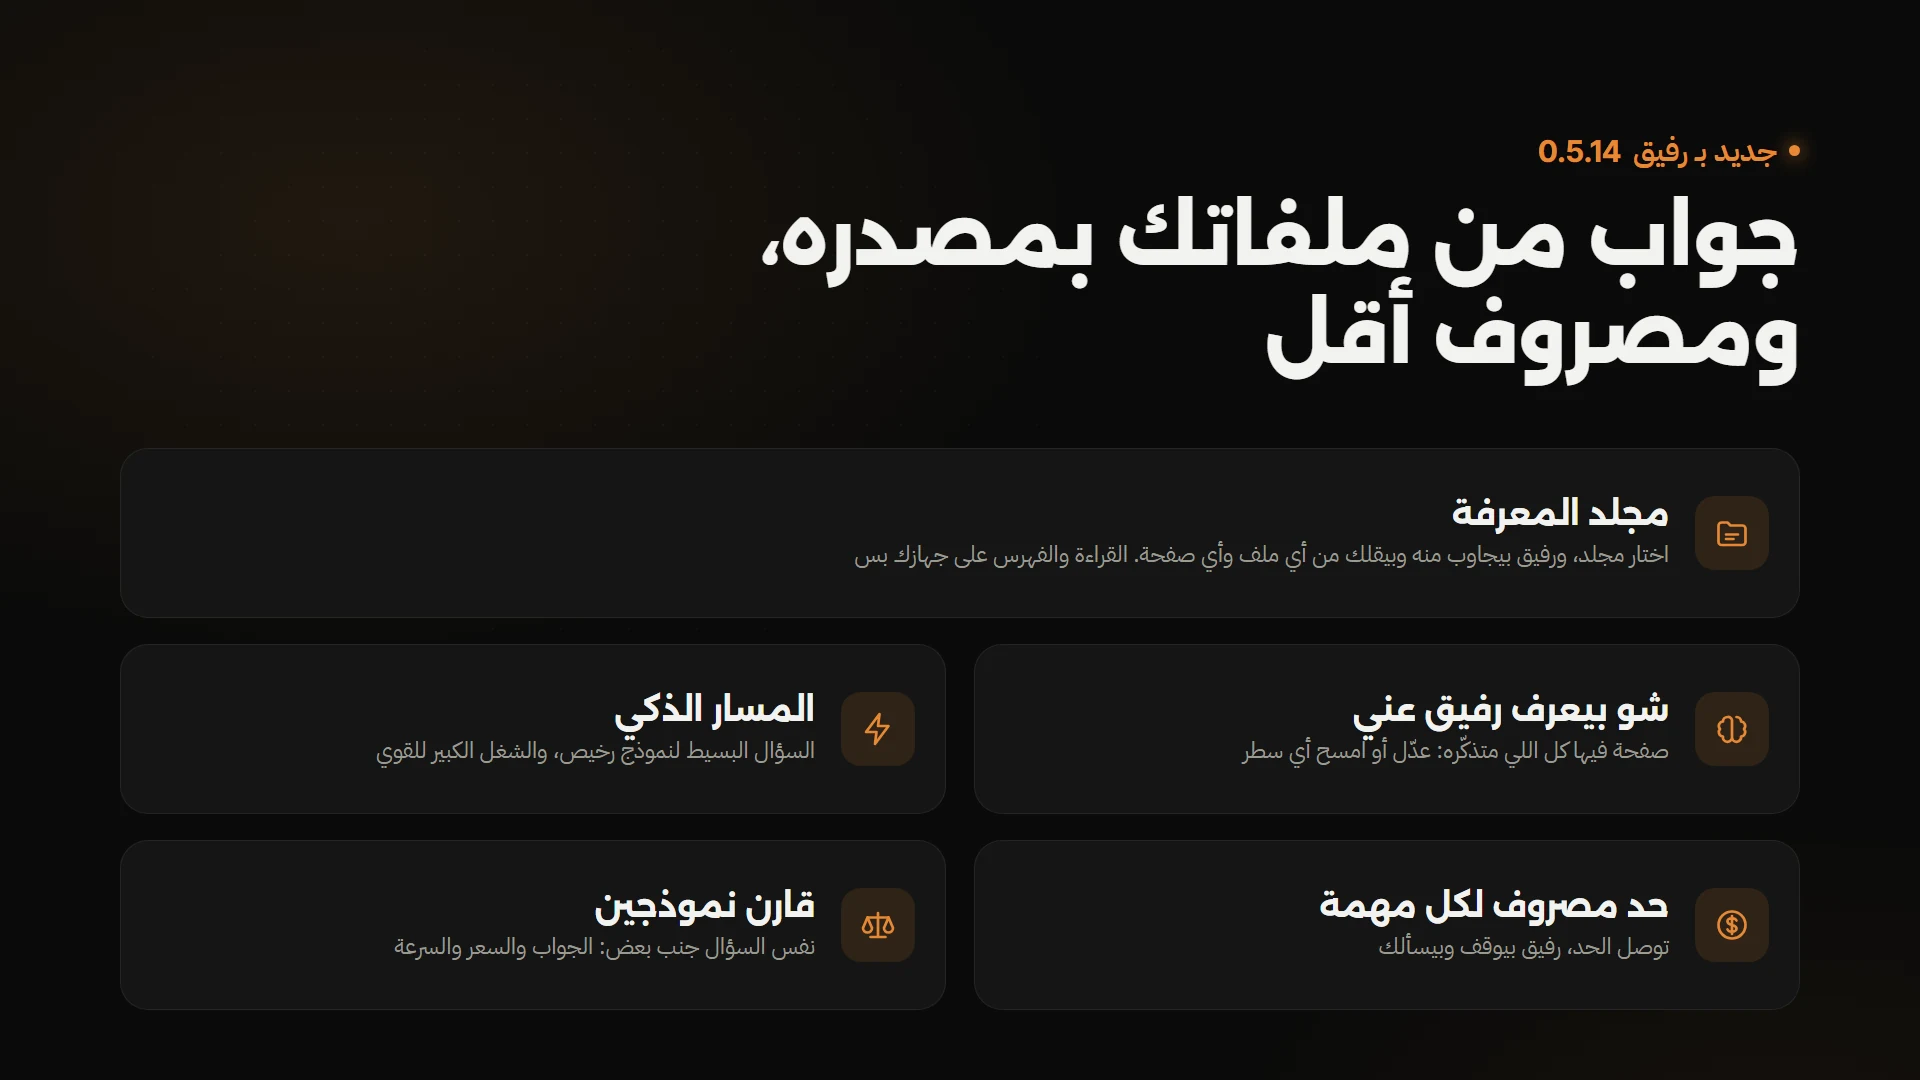
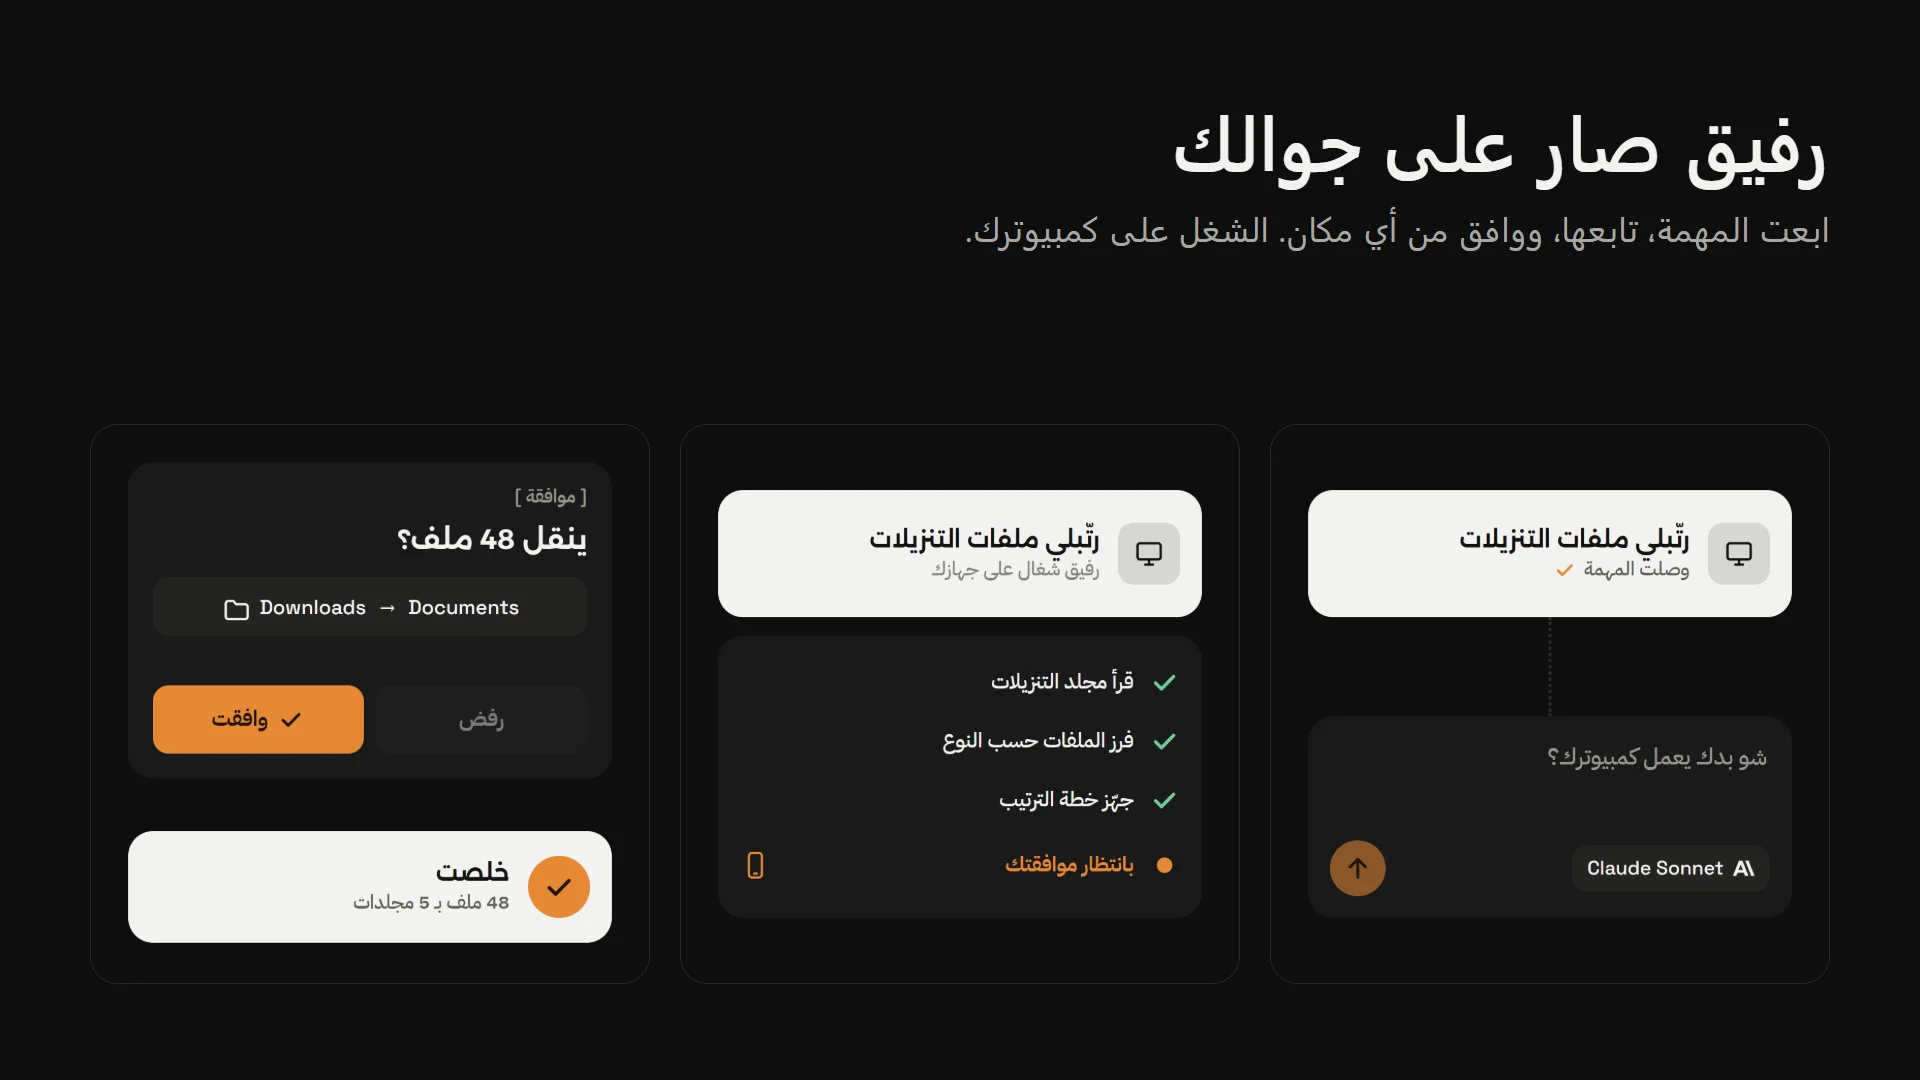
release: Rafiq 0.5.15

diff --git a/apps/desktop/src/i18n/ru.ts b/apps/desktop/src/i18n/ru.ts
@@ -3479,4 +3479,9 @@ export const ru: Dictionary = {
   "المسار الذكي: السؤال البسيط بيروح لنموذج رخيص، وكل رد بيقلك مين جاوب": "Умный маршрут: простой вопрос идёт к дешёвой модели, и каждый ответ показывает, кто отвечал",
   "حد مصروف لكل مهمة أو محادثة: توصله، رفيق بيوقف وبيسألك": "Лимит расходов на задачу или чат: при достижении Rafiq останавливается и спрашивает",
   "قارن نموذجين: نفس السؤال جنب بعض، الجواب والسعر والسرعة": "Сравнение двух моделей: один вопрос рядом — ответ, цена и скорость",
+  "رفيق صار على جوالك": "Rafiq теперь на вашем телефоне",
+  "ابعت مهمة لكمبيوترك من تطبيق الجوال، واختار الموديل من هناك": "Отправляйте задачу на компьютер из приложения на телефоне и выбирайте там модель",
+  "تابع الخطوات، ووافق أو ارفض أي أمر أو تعديل من جوالك": "Следите за шагами и разрешайте или запрещайте команды и изменения с телефона",
+  "كل شي مشفّر بين أجهزتك، والشغل كله بيتم على كمبيوترك": "Всё зашифровано между вашими устройствами, а вся работа идёт на вашем компьютере",
+  "خدمة اختيارية بـ 9.99$ بالشهر، وباقي رفيق بيضل مجاني وبدون حساب": "Необязательный сервис за $9.99 в месяц. Остальной Rafiq остаётся бесплатным и без аккаунта",
 };

diff --git a/apps/desktop/src/lib/whatsNew.ts b/apps/desktop/src/lib/whatsNew.ts
@@ -20,6 +20,9 @@ import screenRu from "../assets/whats-new/0.5.12-ru.webp";
 import councilAr from "../assets/whats-new/0.5.13-ar.webp";
 import councilEn from "../assets/whats-new/0.5.13-en.webp";
 import councilRu from "../assets/whats-new/0.5.13-ru.webp";
+import phoneAr from "../assets/whats-new/0.5.15-ar.webp";
+import phoneEn from "../assets/whats-new/0.5.15-en.webp";
+import phoneRu from "../assets/whats-new/0.5.15-ru.webp";
 
 // The version whose dialog the user closed. (A new key: the first builds marked a version
 // seen as soon as it opened, shown or not.)
@@ -45,6 +48,17 @@ export interface ReleaseNews {
 const RELEASE_VIDEO = (version: string, lang: Locale) => `https://github.com/AhmadALSaffan/RAFIQ/releases/download/v${version}/whats-new-${lang}.mp4`;
 
 export const NEWS: ReleaseNews[] = [
+  {
+    version: "0.5.15",
+    images: { ar: phoneAr, en: phoneEn, ru: phoneRu },
+    title: () => t("رفيق صار على جوالك"),
+    points: () => [
+      t("ابعت مهمة لكمبيوترك من تطبيق الجوال، واختار الموديل من هناك"),
+      t("تابع الخطوات، ووافق أو ارفض أي أمر أو تعديل من جوالك"),
+      t("كل شي مشفّر بين أجهزتك، والشغل كله بيتم على كمبيوترك"),
+      t("خدمة اختيارية بـ 9.99$ بالشهر، وباقي رفيق بيضل مجاني وبدون حساب"),
+    ],
+  },
   {
     version: "0.5.14",
     videos: { ar: RELEASE_VIDEO("0.5.14", "ar"), en: RELEASE_VIDEO("0.5.14", "en"), ru: RELEASE_VIDEO("0.5.14", "ru") },

diff --git a/apps/desktop/src/i18n/en.ts b/apps/desktop/src/i18n/en.ts
@@ -3460,4 +3460,9 @@ export const en: Dictionary = {
   "المسار الذكي: السؤال البسيط بيروح لنموذج رخيص، وكل رد بيقلك مين جاوب": "Smart route: a simple question goes to a cheap model, and every reply says who answered",
   "حد مصروف لكل مهمة أو محادثة: توصله، رفيق بيوقف وبيسألك": "A spending cap per task or chat: when it's reached, Rafiq stops and asks",
   "قارن نموذجين: نفس السؤال جنب بعض، الجواب والسعر والسرعة": "Compare two models: the same question side by side, with the answer, price and speed",
+  "رفيق صار على جوالك": "Rafiq is on your phone now",
+  "ابعت مهمة لكمبيوترك من تطبيق الجوال، واختار الموديل من هناك": "Send your computer a task from the phone app, and choose the model there",
+  "تابع الخطوات، ووافق أو ارفض أي أمر أو تعديل من جوالك": "Follow each step, and approve or deny any command or change from your phone",
+  "كل شي مشفّر بين أجهزتك، والشغل كله بيتم على كمبيوترك": "Everything is encrypted between your devices, and all the work happens on your computer",
+  "خدمة اختيارية بـ 9.99$ بالشهر، وباقي رفيق بيضل مجاني وبدون حساب": "An optional service at $9.99 a month. The rest of Rafiq stays free, with no account",
 };

diff --git a/apps/agent/rafiq_agent/api/insights.py b/apps/agent/rafiq_agent/api/insights.py
@@ -50,7 +50,7 @@ from rafiq_agent.storage.models import (
 
 router = APIRouter(tags=["insights"], dependencies=[Depends(require_token)])
 
-VERSION = "0.5.14"
+VERSION = "0.5.15"
 
 
 @router.get("/usage", response_model=UsageSummary)

diff --git a/README.md b/README.md
@@ -31,25 +31,24 @@ https://github.com/user-attachments/assets/3da54706-52ca-4fb2-87bd-c5f5a4b4518c
 
 ---
 
-## What's new · v0.5.14
+## What's new · v0.5.15
 
 <!-- Every release: replace docs/whats-new/latest.webp with the release's picture (the same
      one the app's What's new dialog shows) and update the version, points and link below. -->
 
 <div align="center">
 
-<img src="docs/whats-new/latest.webp" width="80%" alt="Rafiq 0.5.14: answers from your files with their sources, and spending less">
+<img src="docs/whats-new/latest.webp" width="80%" alt="Rafiq 0.5.15: Rafiq is on your phone now">
 
 </div>
 
-**Answers from your files with their sources, and spending less.**
-- **Knowledge folder:** choose a folder of PDFs, Word files and notes, and Rafiq answers from it and shows which file and page each fact came from. It's read and indexed on your computer; only the passages for your question go to the model.
-- **What Rafiq knows about me:** one page with everything it remembers, to edit, switch off or erase.
-- **Smart route:** short questions go to a cheap model you pick, real work stays with the strong one, and every reply says who answered, with a press to ask the strong one instead.
-- **A spending cap per task or chat:** when it's reached, Rafiq stops and asks.
-- **Compare two models:** the same question side by side, with the answer, the price and the speed.
+**Rafiq is on your phone now.**
+- **Send a task from your phone:** write what you need in the Android app and choose the model. It runs on your computer.
+- **Approve from anywhere:** follow each step, and approve or deny any command or change from your phone.
+- **Encrypted between your devices:** the service only carries encrypted messages, and your files and model keys never reach it.
+- **Optional, at $9.99 a month:** this one service needs an account and a subscription. The rest of Rafiq stays free, with no account.
 
-Full notes: [v0.5.14](https://github.com/AhmadALSaffan/RAFIQ/releases/tag/v0.5.14) · every release: [Releases](https://github.com/AhmadALSaffan/RAFIQ/releases)
+Full notes: [v0.5.15](https://github.com/AhmadALSaffan/RAFIQ/releases/tag/v0.5.15) · every release: [Releases](https://github.com/AhmadALSaffan/RAFIQ/releases)
 
 ---
 
@@ -59,7 +58,7 @@ Full notes: [v0.5.14](https://github.com/AhmadALSaffan/RAFIQ/releases/tag/v0.5.1
 
 The whole interface is Arabic and right-to-left from the ground up, everything runs locally, and nothing sensitive happens without your approval.
 
-> 🔑 **Bring your own model:** Rafiq has no account system and no cloud of its own. You add an API key for the provider you choose (stored in Windows Credential Manager), sign in with a ChatGPT (Plus or Pro) or a GitHub Copilot account, or run a model locally with Ollama.
+> 🔑 **Bring your own model:** Rafiq needs no account and no cloud of its own. The only exception is the optional paid phone service. You add an API key for the provider you choose (stored in Windows Credential Manager), sign in with a ChatGPT (Plus or Pro) or a GitHub Copilot account, or run a model locally with Ollama.
 
 ---
 
@@ -243,7 +242,7 @@ Run `Rafiq_<version>_x64-setup.exe`. It installs for the current user (no admini
 > ⚠ The installer is not code-signed yet, so Windows SmartScreen may show a warning. Choose **More info → Run anyway**. You can check the download against `SHA256SUMS.txt` from the same release:
 >
 > ```powershell
-> Get-FileHash .\Rafiq_0.5.14_x64-setup.exe -Algorithm SHA256
+> Get-FileHash .\Rafiq_0.5.15_x64-setup.exe -Algorithm SHA256
 > ```
 
 ### 2 — Clone the Repository (Developers)

diff --git a/PRIVACY.md b/PRIVACY.md
@@ -1,12 +1,16 @@
 # Privacy policy
 
-_Last updated: 15 October 2026_
+_Last updated: 1 November 2026_
 
-Rafiq is a desktop app that runs on your own Windows computer. There is no Rafiq server and no Rafiq account. This page explains what that means for your data.
+Rafiq is a desktop app that runs on your own Windows computer. The app needs no Rafiq server and no Rafiq account. The only exception is the optional paid service, Rafiq from your phone, covered in its own section below. This page explains what that means for your data.
 
 ## What Rafiq collects
 
-**Nothing.** Rafiq has no analytics, no telemetry, no crash reporting and no tracking. The developer receives no data about you or how you use the app.
+**Nothing, unless you sign in to Rafiq from your phone.** Rafiq has no analytics, no telemetry, no crash reporting and no tracking. Without that service, the developer receives no data about you or how you use the app.
+
+## Rafiq from your phone (optional)
+
+Only if you sign in to this service, it keeps your email and sign-in sessions, your device names, their public keys and when they were last seen, encrypted messages until they're delivered (7 days at most if unread), and your subscription status with PayPal's notices about it. The text of your tasks, their results and your approvals are end-to-end encrypted between your devices, so the service can't read them. Your files and model keys never reach it. Details are in the [full policy](https://rafiqagent.com/en/privacy/).
 
 ## Where your data lives
 
